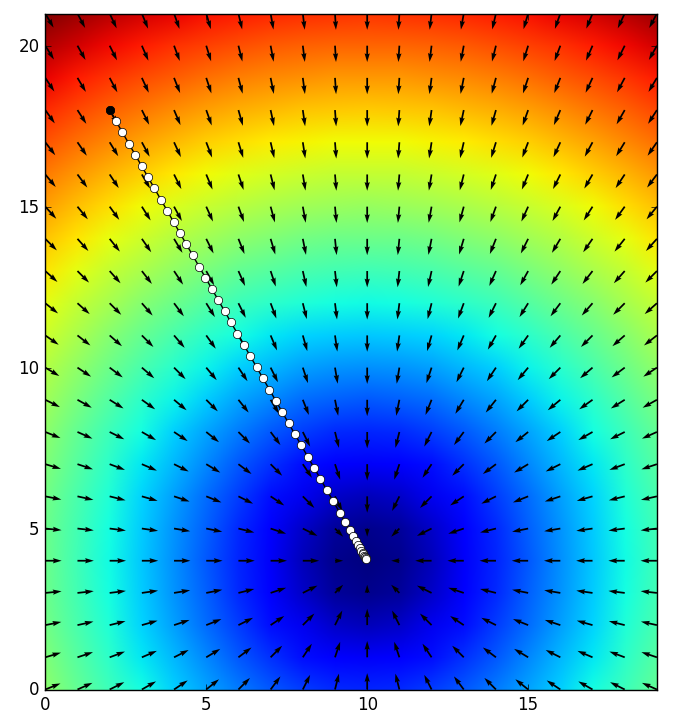
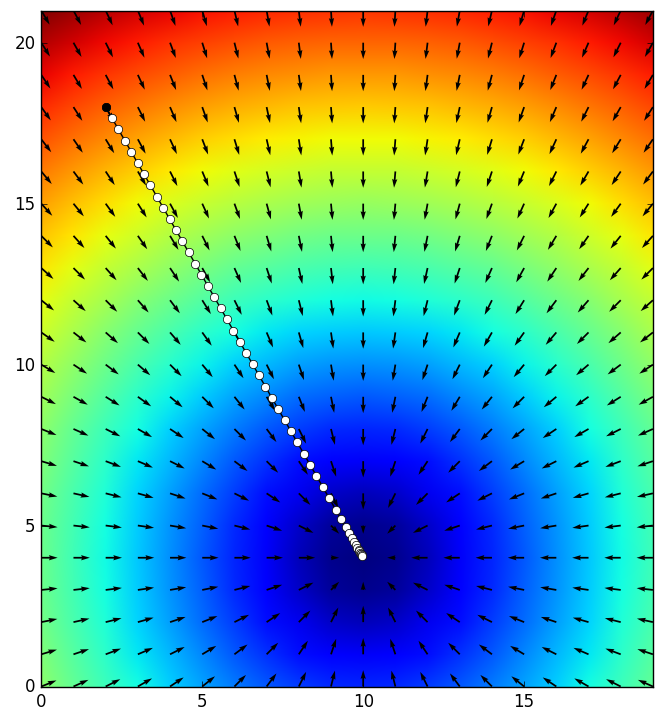
modificaciones

diff --git a/intercom.tex b/intercom.tex
@@ -36,7 +36,7 @@
 \begin{document}
 %%%%%%%%%%%%%%%%%%%%% TITLE %%%%%%%%%%%%%%%%%%%%%%%%%%%%%%%%%%
 %\title{Image-driven robot-based drawing system itation of Human Drawing by a NAO Robot}
-\title{Control of a mobile robot based on Potential field and Polar control}
+\title{Autonomous Motion of a Mobile Robot based on Potential Fields and Polar Control}
 \author{\IEEEauthorblockN{Jose-Maria Munoz, Emanuel S. Munoz, Oscar E. Ramos}
 \IEEEauthorblockA{Department of Electrical Engineering, Universidad de Ingenieria y Tecnologia - UTEC, Lima, Peru}
 }
@@ -46,59 +46,92 @@
 % }
 \maketitle
 \begin{abstract}
-The differential wheeled robot is widely used for navigation tasks. However it has limitation in its motion because its non-holonomic constraints. In this work, we propose an algorithm which drives a two-wheeled robot through a collision-free trajectory smoothly. For the generation of trajectories, it was implemented Artificial Potential Fields (APF) for a sensed environment through a depth sensor. Paths are followed through an iterative closed-loop feedback controller based in polar coordinates which works for semi-trajectories so they can be guided from the vector forces  of APF. Results were obtained from simulations in Gazebo software for the Kobuki model and from the implementation of the algorithm in real Kobuki robot sensing  with a Lidar sensor.
+  Autonomous motion of mobile robots is an open problem in robotics. One of the challenges consists in properly interpreting the information from the sensors, and another challenge is to adequately move according to this information.
+%   The differential wheeled 
+% robot is widely used for navigation tasks. However it has limitation in its
+% motion because its non-holonomic constraints.
+  In this work, we propose an algorithm which drives a mobile robot through a
+  collision-free trajectory smoothly. The generation of trajectories is based
+  on Artificial Potential Fields for the sensed environment, whose information
+  is acquired using a depth sensor. The generated path is then followed using
+  an iterative closed-loop feedback controller based on polar coordinates which
+  % works for semi-trajectories so they can be guided from the vector forces of
+  works guided by the vectors coming from the potential field. The robot can
+  thus move autonomously to a desired position avoiding obstacles. Results were
+  obtained using a dynamic simulator and also using Quanser's Qbot2 mobile
+  robot.
+  % from simulations in Gazebo software for the Kobuki model and
+  % from the implementation of the algorithm in real Kobuki robot sensing with a
+  % Lidar sensor.
 \end{abstract}
 \IEEEpeerreviewmaketitle
 % \textbf{\textit{Keywords - NAO Robot, Inverse Kinematics, Image Processing, Drawing Imitation}}
 
 \section{Introduction}
 
-Mobile robots have become an extended field of research due to its applications in exploration and navigation on ground, see for example \cite{Bonin-Font2008}. In practice, the differential wheeled robot is widely used because its dynamics and physical structure are not complex. However, the application in navigation of these robots deals with some problems for the controllability of its kinematics.
+Autonomy in mobile robots is a current challenge in robotics since no flawless method for its implementation exists. All systems have to deal with the probability of the sensors and with the proper interpretation of the information. Mobile robots constitute an active field of research due to their applications such as exploration and navigation on the ground \cite{Bonin-Font2008}.
+One particularly useful type of mobile robot is the differential wheeled robot since its dynamics and physical structure is not complex. However, their motion has to deal with their inherent non-holonomic constraints.
+%application in navigation of these robots deals with some problems for the controllability of its kinematics.
+%The robot is a non-holonomic system, so the controllability of these robots is difficult to achieve.
+These constraints need to be taken into account when doing trajectory tracking in any environment. For example, the robot cannot achieve a goal smoothly because its orientation is significantly important to its motion. Some approaches to this solution has gone through different approaches \cite{Rubayat}. 
+% In general, these approaches can be divided for the model in a different system of coordinates.
+The usage of polar coordinates facilitates the control of the robot in a Cartesian coordinate system. Also, the control laws based on these coordinates have the potential to achieve an exponential stability smoothly through a closed-loop control \cite{Matoui}. However, the mathematical formulation of these control laws do not consider trajectory constraints. Moreover, polar control laws can be used for obstacle avoidance when used with appropriate frameworks. 
+% if there are obstacles if it is stated middle goals in which the robot can avoid them. However, these middle goals must be formulated arbitrarily, which is not a good approach for the autonomy of the robot in a navigation task.
 
-The robot is a non-holonomic system, so the controllability of these robots is difficult to achieve. This issue is currently presented when is needed a trajectory tracking in a closed environment. For example, the robot can not achieve a goal smoothly because its orientation is significantly important to its motion. The treatment of this problem has gone through different approaches, see \cite{Rubayat}. In general, the approaches can be divided for the model in a different system of coordinates. The recent research has dealt with it using polar coordinates, because it eliminates some constraints given in the Cartesian coordinate system. According to \cite{Matoui}, the control laws based on these coordinates have the potential to achieve an exponential stability smoothly through a closed-loop control. However, the mathematical formulation of these control laws do not consider trajectory constraints. The polar control laws can be used for obstacle avoidance if it is stated middle goals in which the robot can avoid them. However, these middle goals must be formulated arbitrarily, which is not a good approach for the autonomy of the robot in a navigation task.
+Practical applications of mobile robots deal with an environment, which by nature has different obstacles. Therefore, it is necessary to overcome this limitation of the control. There exist different approaches to solve the path planning problem. One of those approaches is the artificial potential field (APF) method \cite{Woods}. For non-holonomic robots, the path generated by this trajectory planner can be hard to follow through conventional control methods such as a classic PID controller. 
+%or the two-wheeled robot, its non-holonomic problem impede a normal path planning through this method. The artificial attractive or repulsive forces formulate trajectories which the robot cannot follow through conventional control methods. 
 
-On the other hand, the practical application of these robots deals with an environment with obstacles, so it is necessary to overcome this limitation of the control.  One of the most common methods to solve the path planning problem is artificial potential field (APF). The research in this field has shown that APF is an immediate alternative on mobile robots, see \cite{Woods}. However, for the two-wheeled robot, its non-holonomic problem impede a normal path planning through this method. The artificial attractive or repulsive forces formulate trajectories which the robot cannot follow through conventional control methods. 
+In this work, we propose an autonomous motion framework based on potential fields and on polar control laws for the kinematics of a two-wheeled robot, so it can smoothly achieve a validated trajectory to reach a goal position. Experimental results of the proposed framework were obtained through the implementation of each individual controller in a Kobuki model using a dynamic simulator. The controllers were also used to implement autonomy on a real Kobuki robot powered with a Lidar sensor as shown in Fig.~\ref{fig:example-robot}.  The onboard controller of this robot was done using a Raspberri Pi3 computer.
+% Posteriorly, the integration of the controllers for obtaining the proposed control is implemented in a real Kobuki robot powered with a Lidar sensor for obtainment of position obstacles. 
+% This work is structured as follows. In section \ref{sec:robot_motion}, it is introduced the forward and inverse kinematics. Section  \ref{sec:APF} formulates the potential field equation for its application as well as it is stated the control laws in the polar coordinate system.Finally, the experimental results and conclusion are shown to give details of the implementation.
 
-In this work, the authors propose a control based on potential field and on polar control laws for the kinematics of the two-wheeled robot, so it can achieve smoothly a validated trajectory to reach to a position goal. Experimental results were obtained through the implementation of each individual controller in a Kobuki model for a virtual workspace in Gazebo simulator. Posteriorly, the integration of the controllers for obtaining the proposed control is implemented in a real Kobuki robot powered with a Lidar sensor for obtainment of position obstacles. 
- 
-This work is structured as follows. In section \ref{sec:robot_motion}, it is introduced the forward and inverse kinematics. Section  \ref{sec:APF} formulates the potential field equation for its application as well as it is stated the control laws in the polar coordinate system.Finally, the experimental results and conclusion are shown to give details of the implementation.
+\begin{figure}%[h]
+  \centering \footnotesize
+  \subfloat
+  {\includegraphics[width=0.3\textwidth]{kobuki}}
+  \captionsetup{font=footnotesize}
+  \caption{Front and top views of a generated motion for the model of a
+    quadruped robot with a floating base: the robot rotates its body while
+    lowering it, raising a frontal leg and maintaining the other three legs on
+    the ground.}
+  \label{fig:example-robot}
+\end{figure}
+
 
 \section{Robot Motion Generation}
 \label{sec:robot_motion}
-For a navigation approach in a wheeled differential robot, it is necessary to control its motion appropriately. In this section, it is shown the kinematics of the robot and the control laws for its motion.
 
-\subsection{Polar controller}
-
-%\begin{figure}[h]
-%  \includegraphics[width=0.5\linewidth]{control_polar.png}
-%  \centering\caption{Feedback control of states to a reference position}
-%  \label{fig:Polar}
-%\end{figure}
-
-An alternative way of getting a soft control about position and orientation for a differential robot is throughout a control linear law for feedback  of the states based on polar coordinates. Polar controller equations are:
-\begin{equation}
-	\rho = \sqrt[]{(x_{d} - x)^2 + (y_{d} - y)^2} 
-\end{equation}
-\begin{equation}
-	\alpha = atan2(y_{d} - y, x_{d} - x) - \theta 
-\end{equation}
-\begin{equation}
-	\beta = -atan2(y_{d} - y, x_{d} - x) + \theta_{d}.
-\end{equation}
-
-Considering these variables shown, the following control law can be used for the linear speed and for the angular velocity of the robot:
-\begin{equation}
-	v = k_{\rho}\rho
-\end{equation}
-\begin{equation}
-	\omega = k_{\alpha}\alpha + k_{\beta}\beta
-\end{equation}
+For navigation in a wheeled differential robot, it is necessary to control its motion appropriately. A classic way is using a PID controller in the Cartesian space. However, this control is usually ill-posed for a differential wheeled robot.
+%In this section, the kinematics of the robot is recalled, and the control laws for its motion based on a polar approach is presented.
+% In this section the control laws for its motion based on a polar approach is presented.
+%\subsection{Polar controller}
+An alternative way of achieving a softer control in position and orientation for a differential robot is using a linear control law for the feedback of the states based on polar coordinates. As Fig.~\ref{fig:Polar} shows, the polar coordinates associated with the robot are the following
+\begin{align*}
+  \rho &= \sqrt[]{(x_{d} - x)^2 + (y_{d} - y)^2}  \\
+  \alpha &= \text{atan2}(y_{d} - y, x_{d} - x) - \theta  \\
+  \beta &= -\text{atan2}(y_{d} - y, x_{d} - x) + \theta_{d}.
+\end{align*}
+where the variables are shown in~\ref{fig:Polar}. 
+\begin{figure}%[h]
+ \includegraphics[width=0.5\linewidth]{control_polar.png}
+ \centering\caption{Feedback control of states to a reference position}
+ \label{fig:Polar}
+\end{figure}
+Considering the shown variables, the following control law can be used for the linear speed and for the angular velocity of the robot:
+\begin{align*}
+  v &= k_{\rho}\rho \\
+  \omega &= k_{\alpha}\alpha + k_{\beta}\beta
+\end{align*}
+where $k_{\rho}$, $k_{\alpha}$, and $k_{\beta}$ are gain constants that need to be properly tuned.
 
 
 \section{Path Generation}
 \label{sec:APF}
+
+To achieve autonomy, once the motion has been properly controlled, it is necessary to determine the path that it should track. This track in this case will be guided by an artificial potential scheme.
+
 \subsection{Artificial Potential Field}
-There are several approaches in path planning through potential field. In this case, we opted for a one which considers some assumptions for its implementation. Given the potential field generates a force field, it is posteriorly used a guide to generate middle-goals for the polar control. In that way, it is only necessary the positions of the robot, the goal and the obstacles, so it could be generated a vector field from the sum of the attractive  and repulsive potential field.\\
+There exist several approaches in path planning through potential field. In this case, we opted for a one which considers some assumptions for its implementation. Given the potential field generates a force field, it is posteriorly used a guide to generate middle-goals for the polar control. In that way, it is only necessary the positions of the robot, the goal and the obstacles, so it could be generated a vector field from the sum of the attractive  and repulsive potential field.\\
 
 \subsubsection{\textbf{Attractive Potential Field}}
 The attractive potential field drives the robot to the goal position respect to the distance between them. Lets define a scalar potential field which depends on the distance between the current position of the robot $q$ and the goal position $q_{goal}$ as follows. 
@@ -159,12 +192,12 @@ To check the efficiency of the algorithm, it was simulated graphically in a work
 %Las fuerzas de atrraccion se pueden observar en la Figura \ref{f:apf}(a), donde la posición deseada es $(10,4)$ y la posicion inicial del robot es $(2,18)$. Los puntos de color blanco dentro de la imagen hacen referencia a las semi posiciones deseadas formando la trayectoria del robot. Tambien se puede ver que todas las flechas,del campo vectorial,estan en direccion hacia la meta del robot. Asimismo, también en la Figura \ref{f:apf}(b) se puede observar a tres obstaculos que estan distribuidos en diferentes posiciones del espacio de trabajo. Cada obstaculo se proyecta como un circulo rojo debido a su alta magnitud dentro de su campo potencial, donde las fuerzas apuntan hacia afuera en cada obstaculo. Finalmente, para la fuerza de navegacion se tuvo que superponer las fuerzas de atraccion y repulsion como se observa en la Figura \ref{f:apf}(c). Donde los puntos blancos es la trayectoria que generaría el robot asumiendo que este robot tiene un controlador que supera la no holonomicidad no teniendo restricciones para su movimiento.
 
 \begin{figure}[ht!]
-	\centering
-	\subfloat[Attractive Force]{\includegraphics[width=40mm]{attr_force.png}}
-	~\subfloat[Repulsive Force]{\includegraphics[width =40mm]{rep_force.png}}\\
-	\subfloat[Navigation Force]{\includegraphics[width =40mm]{nav_force.png}}
+  \centering
+  \subfloat[Attractive Force]{\includegraphics[width=40mm]{attr_force2.png}}
+  ~\subfloat[Repulsive Force]{\includegraphics[width=40mm]{rep_force.png}}\\
+  \subfloat[Navigation Force]{\includegraphics[width=40mm]{nav_force.png}}
 %\subfloat[Attractive Force]{\includegraphics[width = 150mm]{attr_force.png}}
-	\caption{Potential Field Algorithm} \label{f:apf}
+  \caption{Potential Field Algorithm} \label{f:apf}
 \end{figure}
 
 \subsection{Polar controller}
